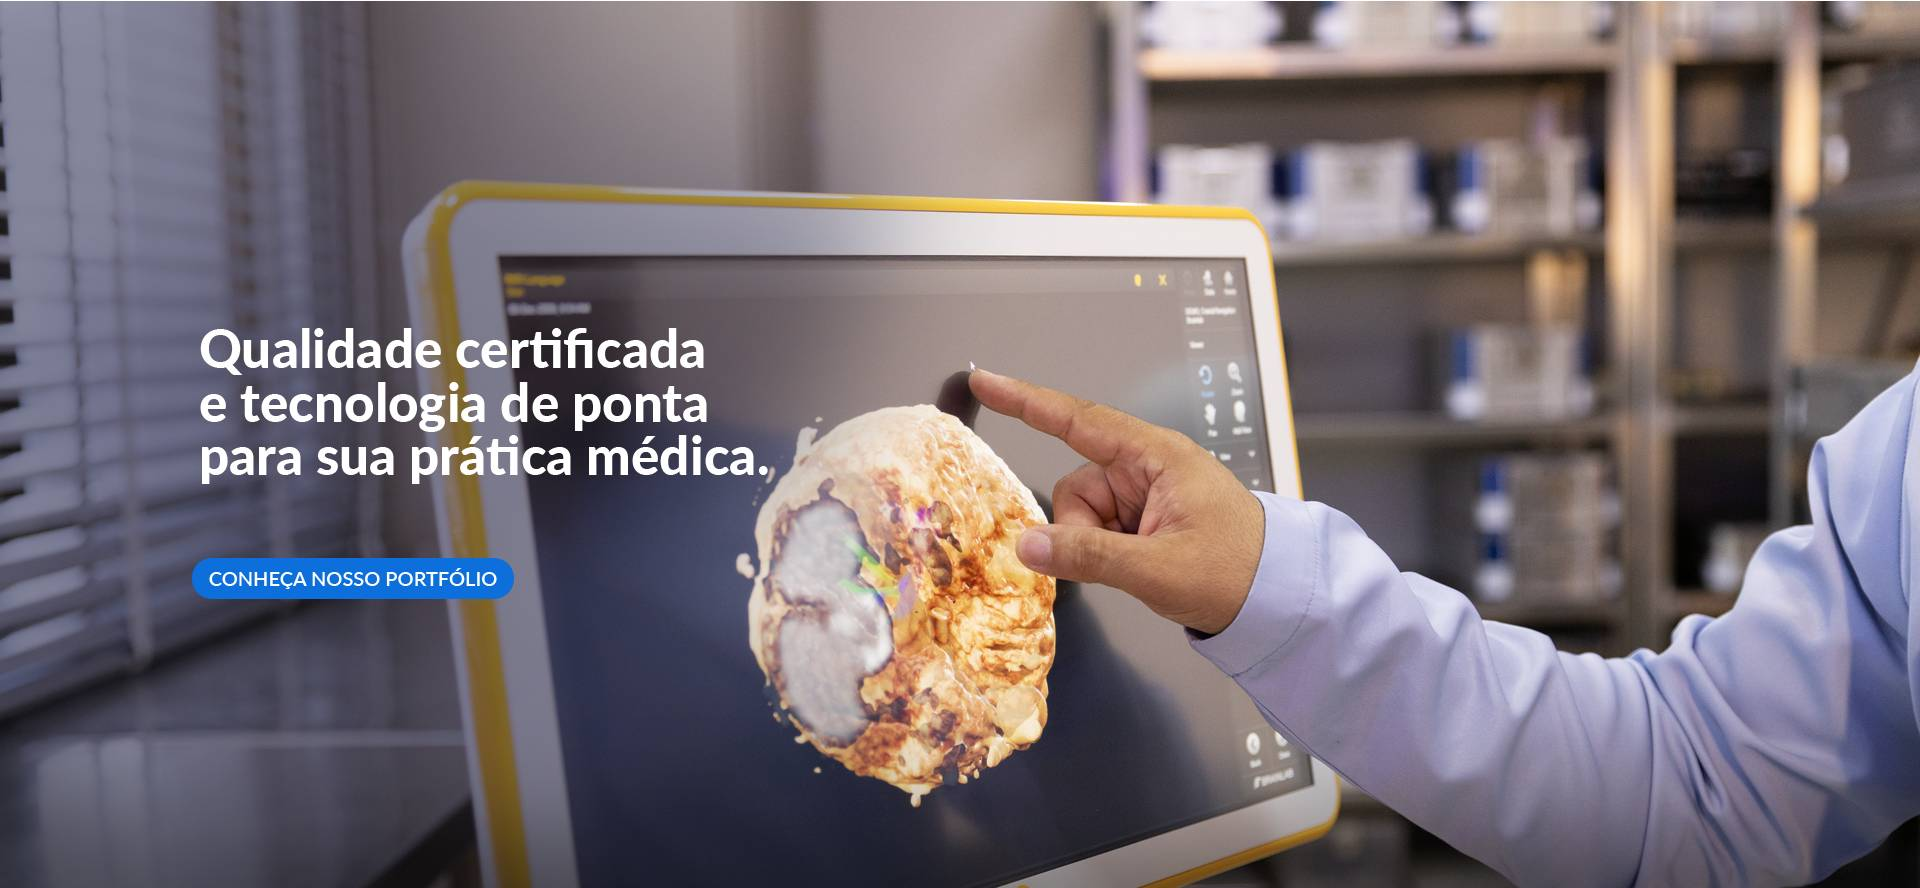
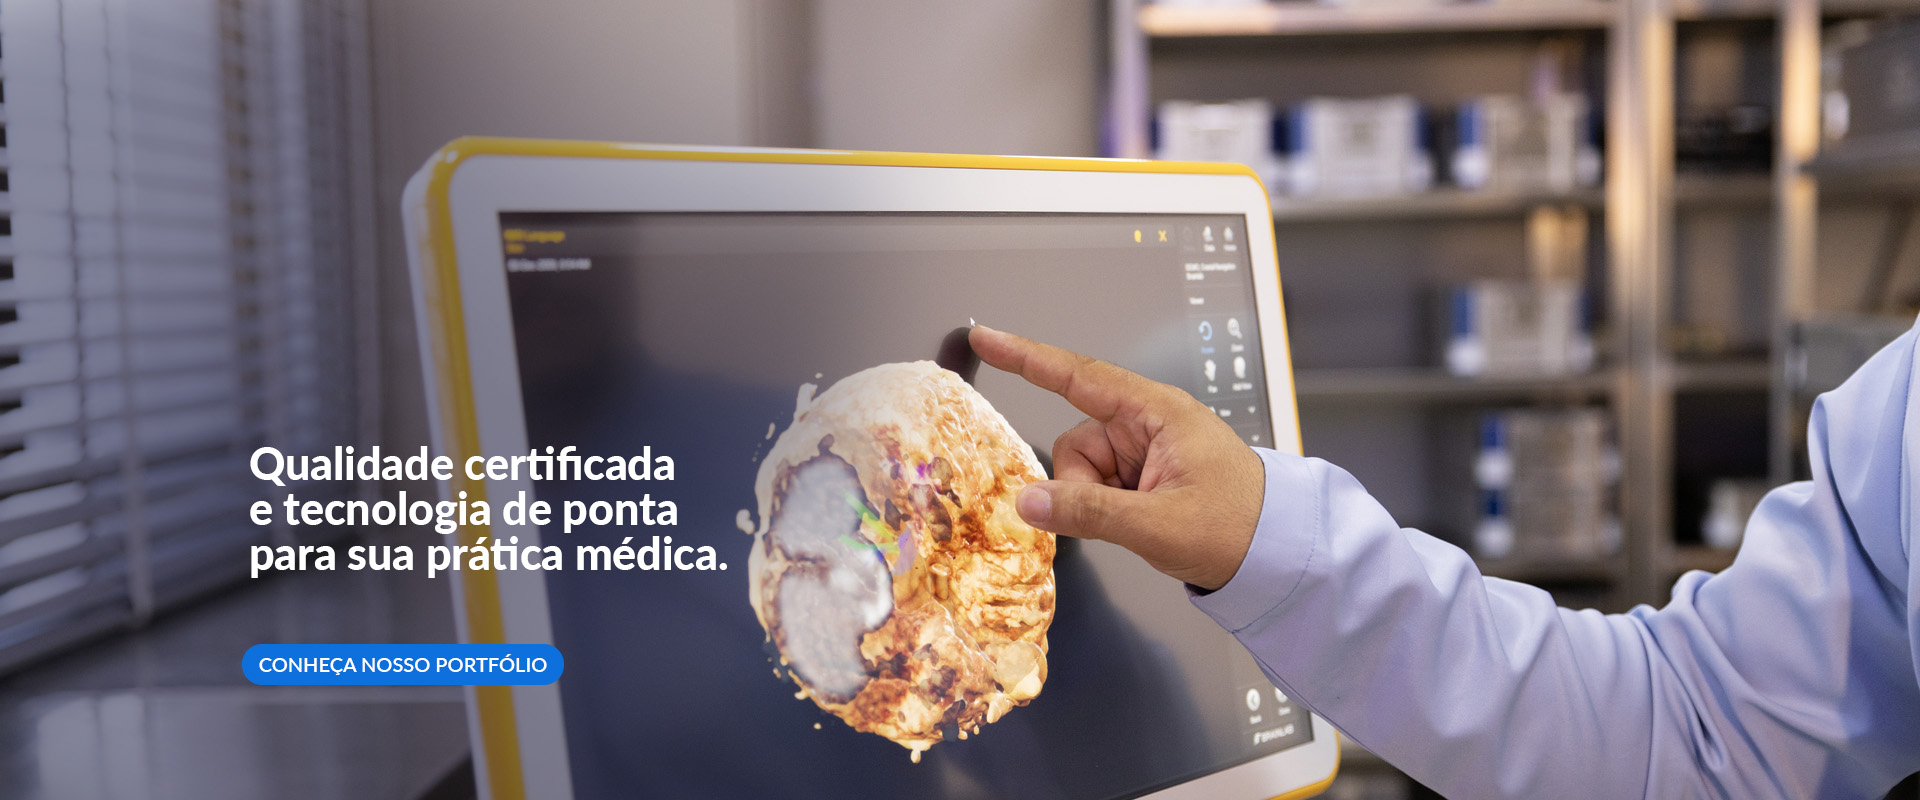
refactor: refatorar versão mobile de CertificacoesSection e atualizar imagens do carrossel
- CertificacoesSection: adaptação mobile com overlay azul escuro
  - Overlay #01155a apenas no mobile
  - Layout centralizado no mobile
  - Padding reduzido (48px mobile / 80px desktop)
  - Título H2 e botão CTA ocultos no mobile
  - Badge com cor #1E4DD9 no mobile
  - Texto branco no mobile para contraste

- Carrossel: atualizar imagens slide-certificada e slide-globus-min
  - Versões de maior qualidade/resolução

diff --git a/client/src/components/CertificacoesSection.tsx b/client/src/components/CertificacoesSection.tsx
@@ -5,25 +5,24 @@ export function CertificacoesSection() {
 
   return (
     <section
-      className="relative w-full bg-cover bg-no-repeat bg-center"
+      className="relative w-full pt-12 pb-12 md:bg-cover md:bg-no-repeat md:bg-center md:pt-20 md:pb-20"
       style={{
         backgroundImage: `url(${c.imagem})`,
-        paddingTop: "80px",
-        paddingBottom: "80px",
       }}
       data-testid="section-certificacoes"
     >
-      <div className="mx-auto max-w-[1280px] px-8">
+      {/* Overlay azul escuro no mobile */}
+      <div className="absolute inset-0 bg-[#01155a] md:hidden" />
+      <div className="relative mx-auto max-w-[600px] px-6 text-center md:max-w-[1280px] md:px-8 md:text-left">
         {/* Conteúdo */}
-        <div className="flex flex-col md:items-end">
+        <div className="flex flex-col items-center md:items-end">
           {/* Tag/Badge */}
-          <div style={{ marginBottom: "24px" }}>
+          <div style={{ marginBottom: "20px" }}>
             <span
-              className="inline-block bg-[#0d70dc] text-white uppercase rounded-full"
+              className="inline-block bg-[#1E4DD9] text-white uppercase rounded-full text-xs md:bg-[#0d70dc] md:text-sm"
               style={{
                 fontFamily: "Lato, sans-serif",
                 fontWeight: 600, // Semibold
-                fontSize: "14px",
                 borderRadius: "999px",
                 padding: "6px 18px",
                 display: "inline-flex",
@@ -37,9 +36,9 @@ export function CertificacoesSection() {
             </span>
           </div>
 
-          {/* Título H2 para SEO */}
+          {/* Título H2 para SEO - Oculto no mobile */}
           <h2
-            className="text-[#1A1A1A]"
+            className="hidden text-[#1A1A1A] md:block"
             style={{
               fontFamily: "Lato, sans-serif",
               fontWeight: 700,
@@ -55,13 +54,11 @@ export function CertificacoesSection() {
 
           {/* Texto Institucional */}
           <p
-            className="text-[#1A1A1A]"
+            className="text-white text-center leading-[1.4] max-w-[90%] md:text-[#1A1A1A] md:leading-[1.6] md:max-w-[540px]"
             style={{
               fontFamily: "Lato, sans-serif",
               fontWeight: 400, // Regular
               fontSize: "20px",
-              lineHeight: 1.6,
-              maxWidth: "540px",
               marginBottom: "32px",
             }}
             data-testid="text-certificacoes-institucional"
@@ -70,9 +67,9 @@ export function CertificacoesSection() {
           </p>
         </div>
 
-        {/* Botão centralizado horizontalmente na seção inteira */}
+        {/* Botão centralizado horizontalmente na seção inteira - Oculto no mobile */}
         {c.mostrarBotao && c.textoBotao && c.linkBotao && (
-          <div className="flex justify-center w-full mt-8">
+          <div className="hidden justify-center w-full mt-8 md:flex">
             <a
               href={c.linkBotao}
               className="inline-flex items-center justify-center bg-[#0d70dc] text-white rounded-full hover:bg-[#0d70dc] transition uppercase"
